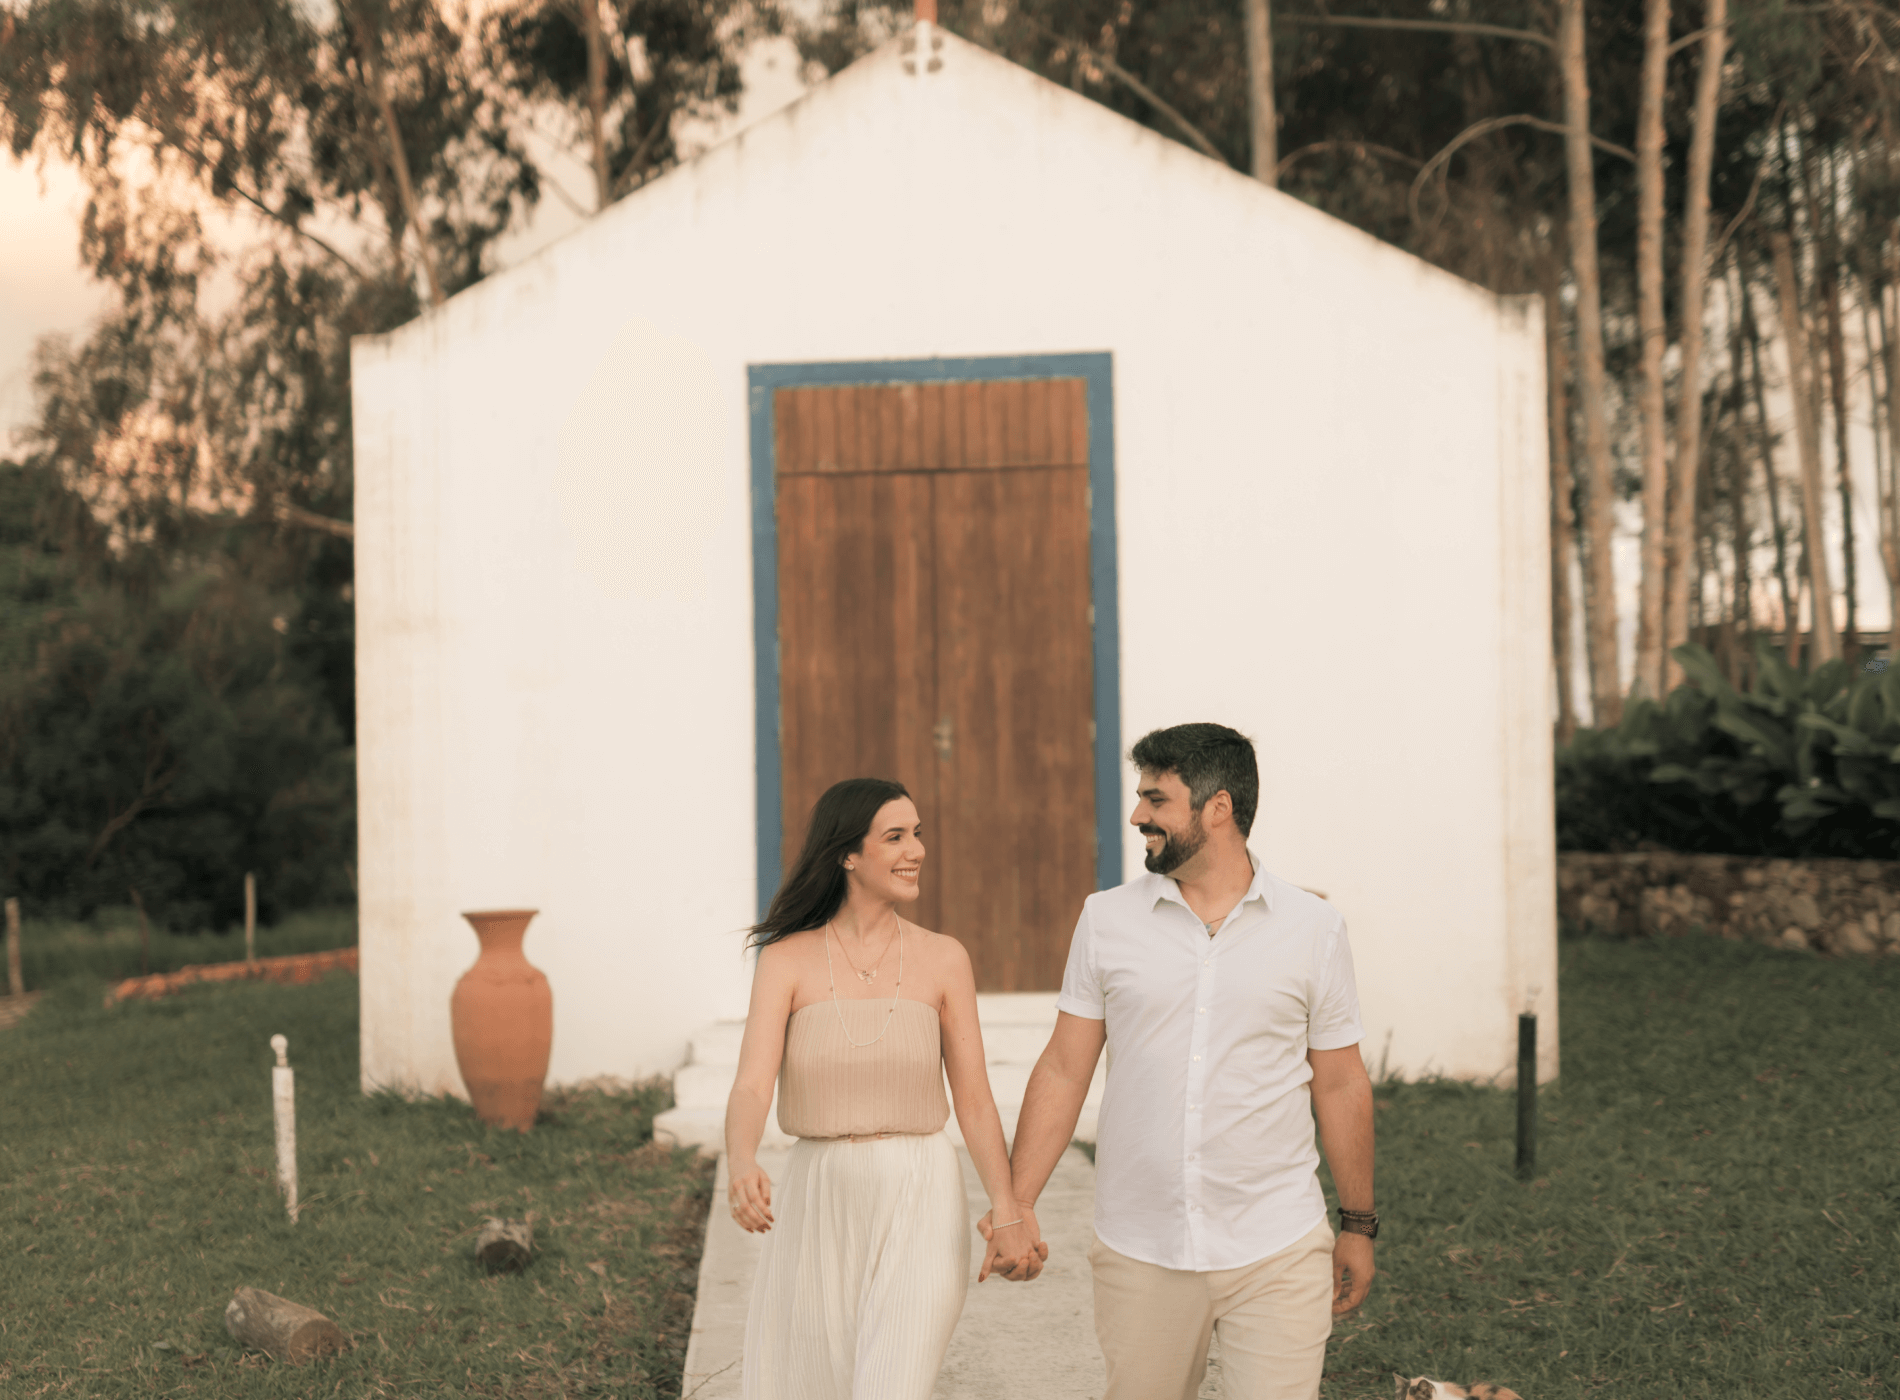
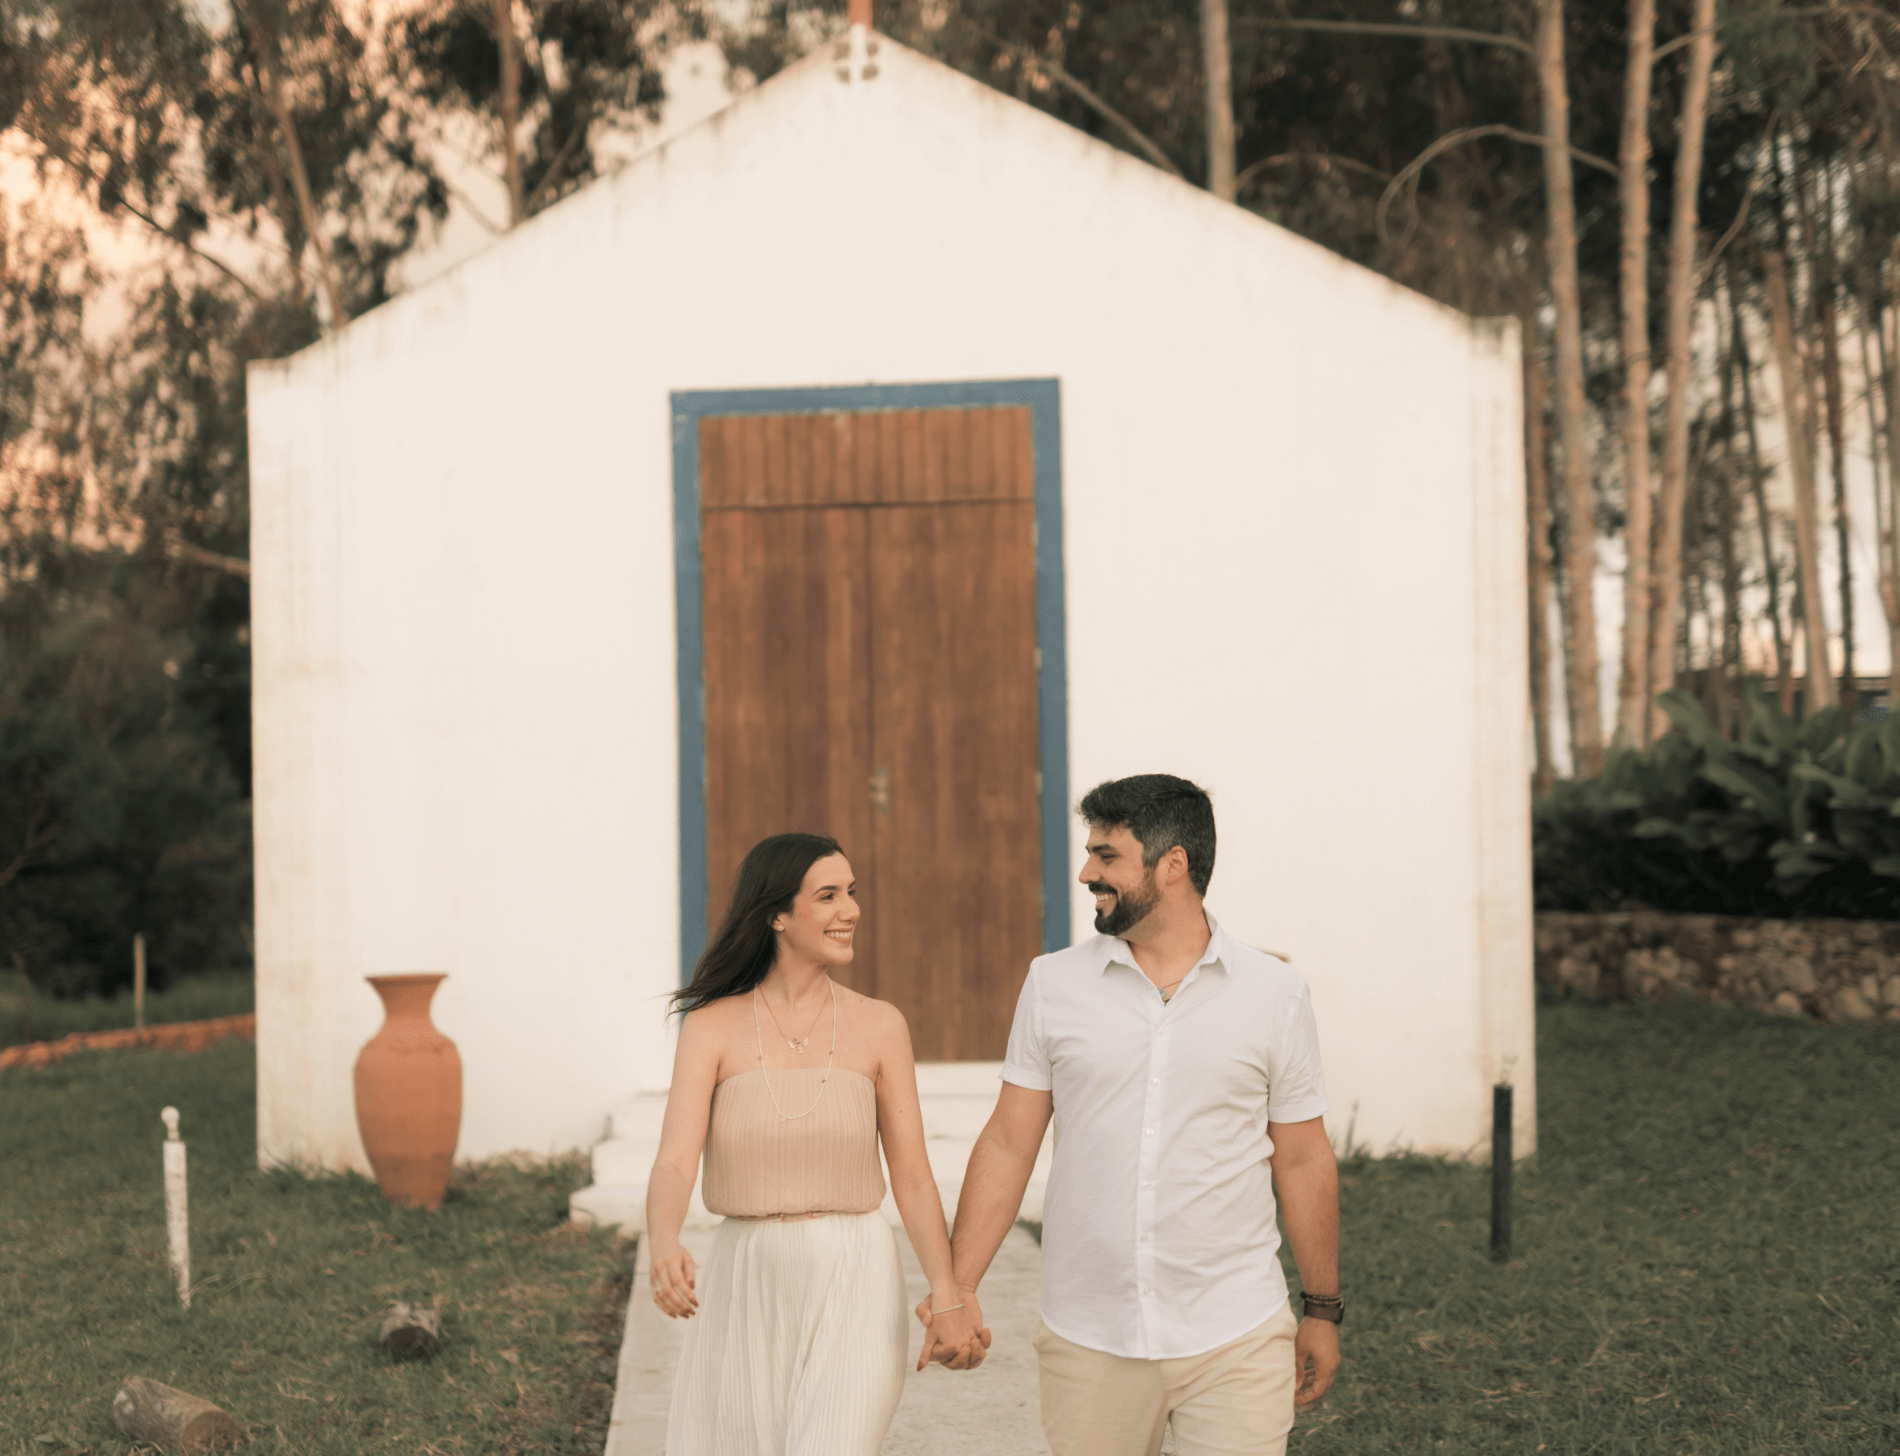
slides

diff --git a/layseluiz/index.html b/layseluiz/index.html
@@ -67,14 +67,46 @@
 		
 		<div class="bump"></div>
 
-		<div id="slideshow" class="slidescol">
-			<img class="slide-item show" src="./assets/slide1.png" alt="Lays e Luiz">
-			<img class="slide-item" src="./assets/slide2.png" alt="Lays e Luiz">
-			<img class="slide-item" src="./assets/slide3.png" alt="Lays e Luiz">
+		<div id="slideshow-left">
+			<img class="slide-item show" src="./assets/slides/slide1.jpg" alt="Lays e Luiz">
+			<img class="slide-item" src="./assets/slides/slide3.jpg" alt="Lays e Luiz">
+			<img class="slide-item" src="./assets/slides/slide5.jpg" alt="Lays e Luiz">
+			<img class="slide-item" src="./assets/slides/slide7.jpg" alt="Lays e Luiz">
+			<img class="slide-item" src="./assets/slides/slide9.jpg" alt="Lays e Luiz">
+			<img class="slide-item" src="./assets/slides/slide11.jpg" alt="Lays e Luiz">
+			<img class="slide-item" src="./assets/slides/slide13.jpg" alt="Lays e Luiz">
+			<img class="slide-item" src="./assets/slides/slide15.jpg" alt="Lays e Luiz">
+			<img class="slide-item" src="./assets/slides/slide17.jpg" alt="Lays e Luiz">
+			<img class="slide-item" src="./assets/slides/slide19.jpg" alt="Lays e Luiz">
+			<img class="slide-item" src="./assets/slides/slide21.jpg" alt="Lays e Luiz">
+			<img class="slide-item" src="./assets/slides/slide23.jpg" alt="Lays e Luiz">
+			<img class="slide-item" src="./assets/slides/slide25.jpg" alt="Lays e Luiz">
+			<img class="slide-item" src="./assets/slides/slide27.jpg" alt="Lays e Luiz">
+			<img class="slide-item" src="./assets/slides/slide29.jpg" alt="Lays e Luiz">
 		</div>
 
-		<div style="width:130px;float:left;margin-left:10px;">
-			<p style="text-align: left;">Nossas fotos foram tiradas pelo nosso fotógrafo, Caio Queiroz, no local especial que escolhemos para nosso casamento, a Fazenda Palmeiras!</p>
+		<div id="slideshow-right">
+			<img class="slide-item show" src="./assets/slides/slide2.jpg" alt="Lays e Luiz">
+			<img class="slide-item" src="./assets/slides/slide4.jpg" alt="Lays e Luiz">
+			<img class="slide-item" src="./assets/slides/slide6.jpg" alt="Lays e Luiz">
+			<img class="slide-item" src="./assets/slides/slide8.jpg" alt="Lays e Luiz">
+			<img class="slide-item" src="./assets/slides/slide10.jpg" alt="Lays e Luiz">
+			<img class="slide-item" src="./assets/slides/slide12.jpg" alt="Lays e Luiz">
+			<img class="slide-item" src="./assets/slides/slide14.jpg" alt="Lays e Luiz">
+			<img class="slide-item" src="./assets/slides/slide16.jpg" alt="Lays e Luiz">
+			<img class="slide-item" src="./assets/slides/slide18.jpg" alt="Lays e Luiz">
+			<img class="slide-item" src="./assets/slides/slide20.jpg" alt="Lays e Luiz">
+			<img class="slide-item" src="./assets/slides/slide22.jpg" alt="Lays e Luiz">
+			<img class="slide-item" src="./assets/slides/slide24.jpg" alt="Lays e Luiz">
+			<img class="slide-item" src="./assets/slides/slide26.jpg" alt="Lays e Luiz">
+			<img class="slide-item" src="./assets/slides/slide28.jpg" alt="Lays e Luiz">
+			<img class="slide-item" src="./assets/slides/slide30.jpg" alt="Lays e Luiz">
+		</div>
+
+		<div class="bump" style="margin-top:20px;"></div>
+
+		<div class="onecol">
+			<p style="text-align: left;font-size: 13px">Nossas fotos foram tiradas pelo nosso fotógrafo, Caio Queiroz, no local especial que escolhemos para nosso casamento, a Fazenda Palmeiras!</p>
 		</div>
 
 		<div style="clear:both;">&nbsp;</div>		

diff --git a/layseluiz/assets/slide.js b/layseluiz/assets/slide.js
@@ -1,9 +1,12 @@
-var slides = document.querySelectorAll('#slideshow .slide-item');
+var slidesLeft = document.querySelectorAll('#slideshow-left .slide-item');
+var slidesRight = document.querySelectorAll('#slideshow-right .slide-item');
 var currentSlide = 0;
 setInterval(nextSlide,5000);
 
 function nextSlide() {
-    slides[currentSlide].className = 'slide-item';
-    currentSlide = (currentSlide+1)%slides.length;
-    slides[currentSlide].className = 'slide-item show';
+    slidesLeft[currentSlide].className = 'slide-item';
+    slidesRight[currentSlide].className = 'slide-item';
+    currentSlide = (currentSlide+1)%slidesLeft.length;
+    slidesLeft[currentSlide].className = 'slide-item show';
+    slidesRight[currentSlide].className = 'slide-item show';
 }

diff --git a/layseluiz/assets/style.css b/layseluiz/assets/style.css
@@ -223,13 +223,6 @@ body {
     margin: 0 10px;
 }
 
-.slidescol {
-    width: 800px;
-    height: auto;
-    float: left;
-    margin: 0 10px;
-}
-
 .bump {
 	width: 100%;
 	height: 30px;
@@ -532,16 +525,18 @@ form {
 	100%{opacity: 0.1}
 }
 
-#slideshow {
+#slideshow-left, #slideshow-right {
 	background-color: #000;
-  display:flex;
-  justify-content:center;
-  align-items: center;
+	width: 460px;
+	height: auto;
+	float: left;
+	margin: 0 10px;
 }
+
 .slide-item {
   display:none;
-  width:800px;
-  height:530px;
+  width:460px;
+  height:694px;
 }
 .slide-item.show {
   display:block;

diff --git a/layseluiz/detalhes.html b/layseluiz/detalhes.html
@@ -34,6 +34,7 @@
 			
 		<div class="sixcol">
 			<h3 class="nomar">Onde/Quando</h3>
+			<p style="font-size: 12px; text-align: center;">26 | Novembro | 2022</p>
 		</div>
 		
 		<div class="directions">
